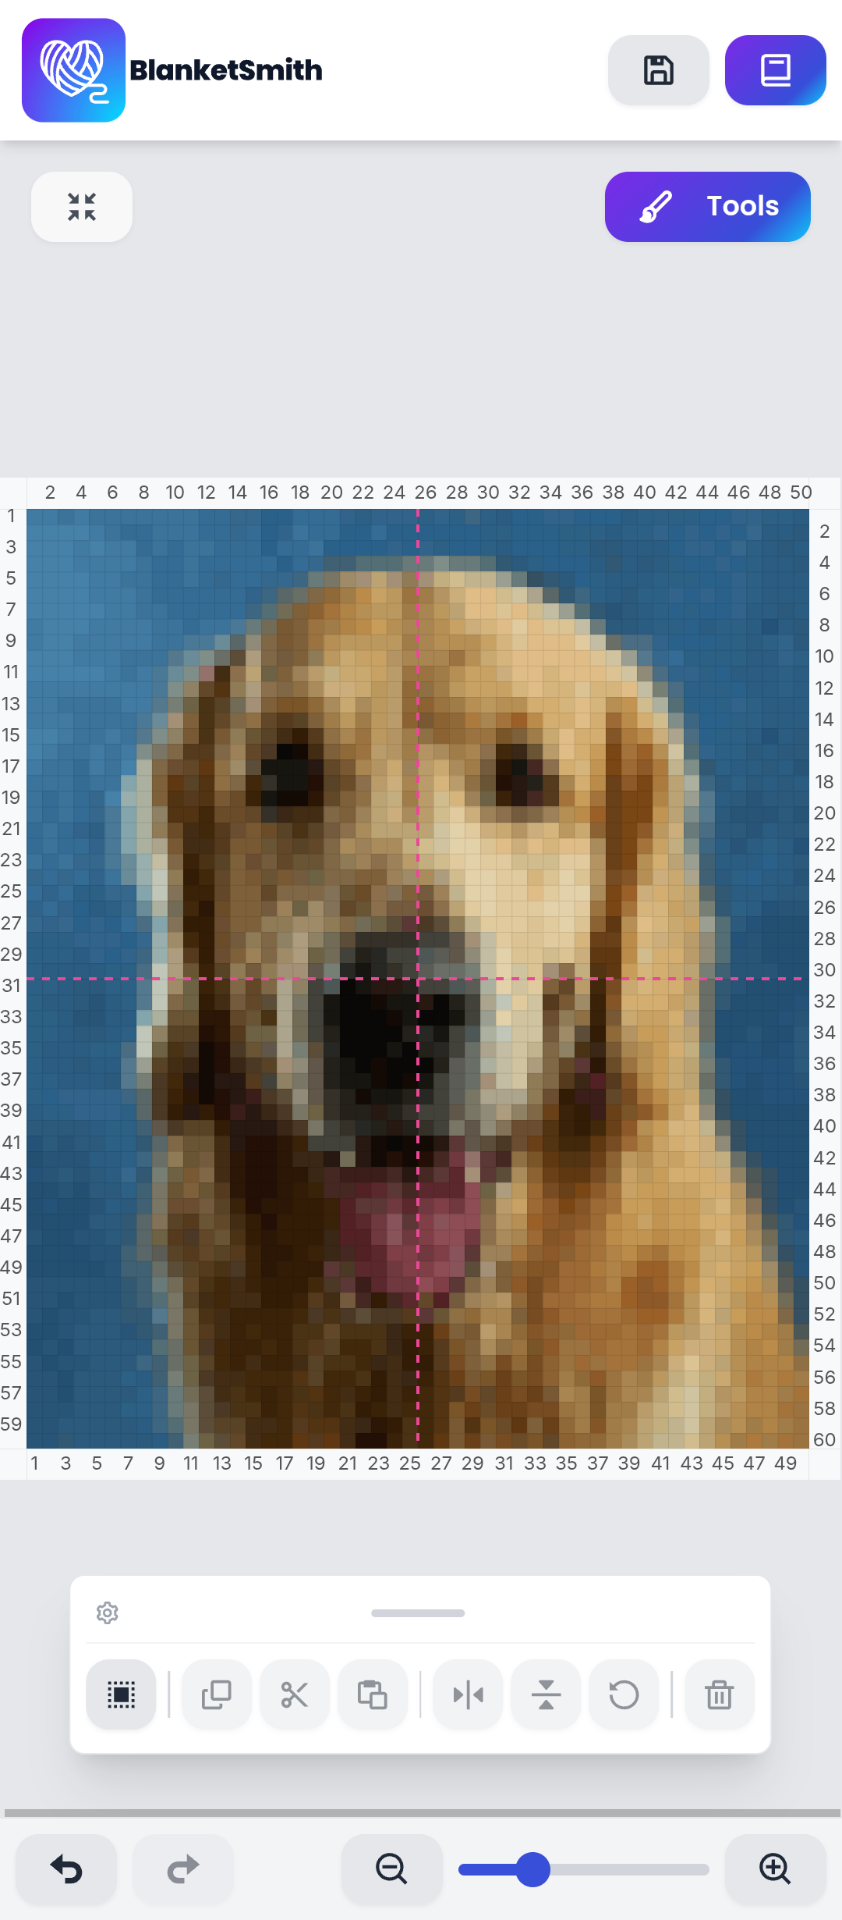
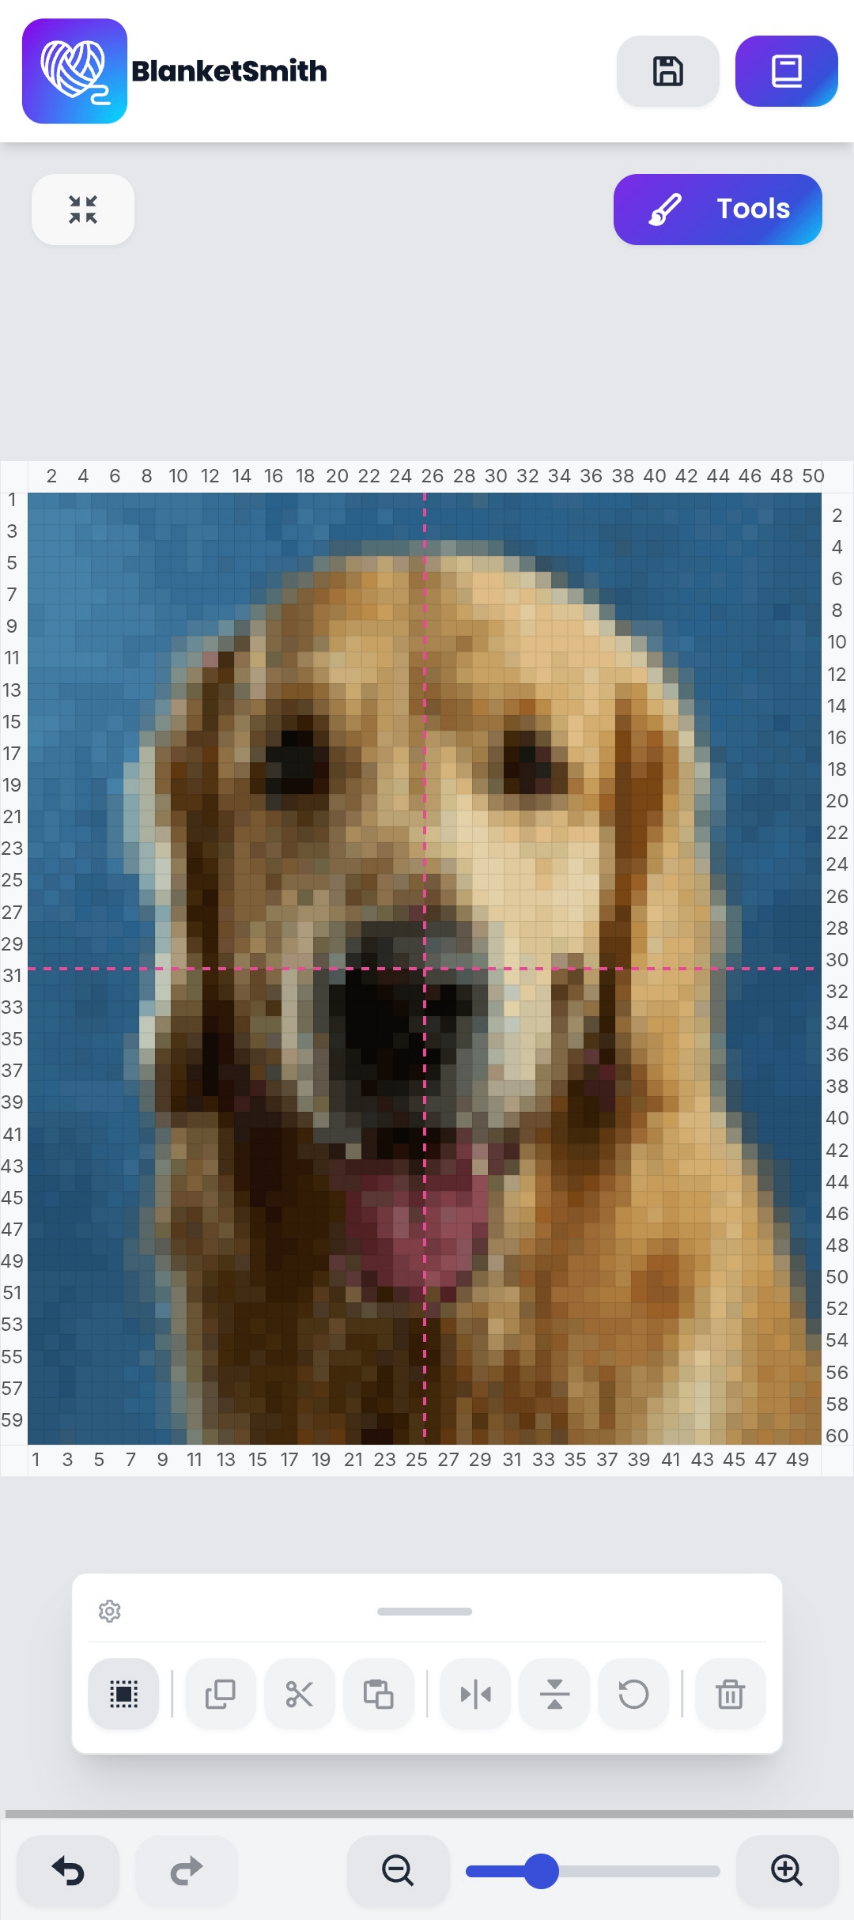
Changes

diff --git a/src/components/MobileMockup.tsx b/src/components/MobileMockup.tsx
@@ -18,29 +18,15 @@ export function MobileMockup() {
           
           {/* Screen Content */}
           <div className="bg-background relative overflow-hidden w-full">
-            {/* Aspect ratio wrapper for mobile (9:19.5) */}
-            <div className="relative w-full" style={{ aspectRatio: "9/19.5" }}>
+            {/* Aspect ratio wrapper matching the screenshot's natural proportions */}
+            <div className="relative w-full bg-background" style={{ aspectRatio: "9/20" }}>
               
-              {/* Top status bar area - matches screenshot header */}
-              <div className="absolute inset-x-0 top-0 h-[8%] bg-[#f0f0f0] z-10 flex items-center justify-center">
-                {/* Notch/Dynamic Island centered */}
-                <div className="w-10 sm:w-14 h-1.5 sm:h-2 bg-foreground/80 rounded-full" />
-              </div>
-              
-              {/* Screenshot image - positioned between top and bottom bars */}
-              <div className="absolute inset-x-0 top-[8%] bottom-[6%] overflow-hidden">
-                <img 
-                  src={mobileScreenshot} 
-                  alt="BlanketSmith mobile app interface"
-                  className="w-full h-full object-cover"
-                  style={{ objectPosition: "center 15%" }}
-                />
-              </div>
-              
-              {/* Bottom home indicator bar */}
-              <div className="absolute inset-x-0 bottom-0 h-[6%] bg-[#f0f0f0] z-10 flex items-center justify-center">
-                <div className="w-8 sm:w-12 h-1 sm:h-1.5 bg-foreground/40 rounded-full" />
-              </div>
+              {/* Screenshot image - full display with contain to show everything */}
+              <img 
+                src={mobileScreenshot} 
+                alt="BlanketSmith mobile app interface"
+                className="w-full h-full object-contain object-top"
+              />
               
             </div>
           </div>
